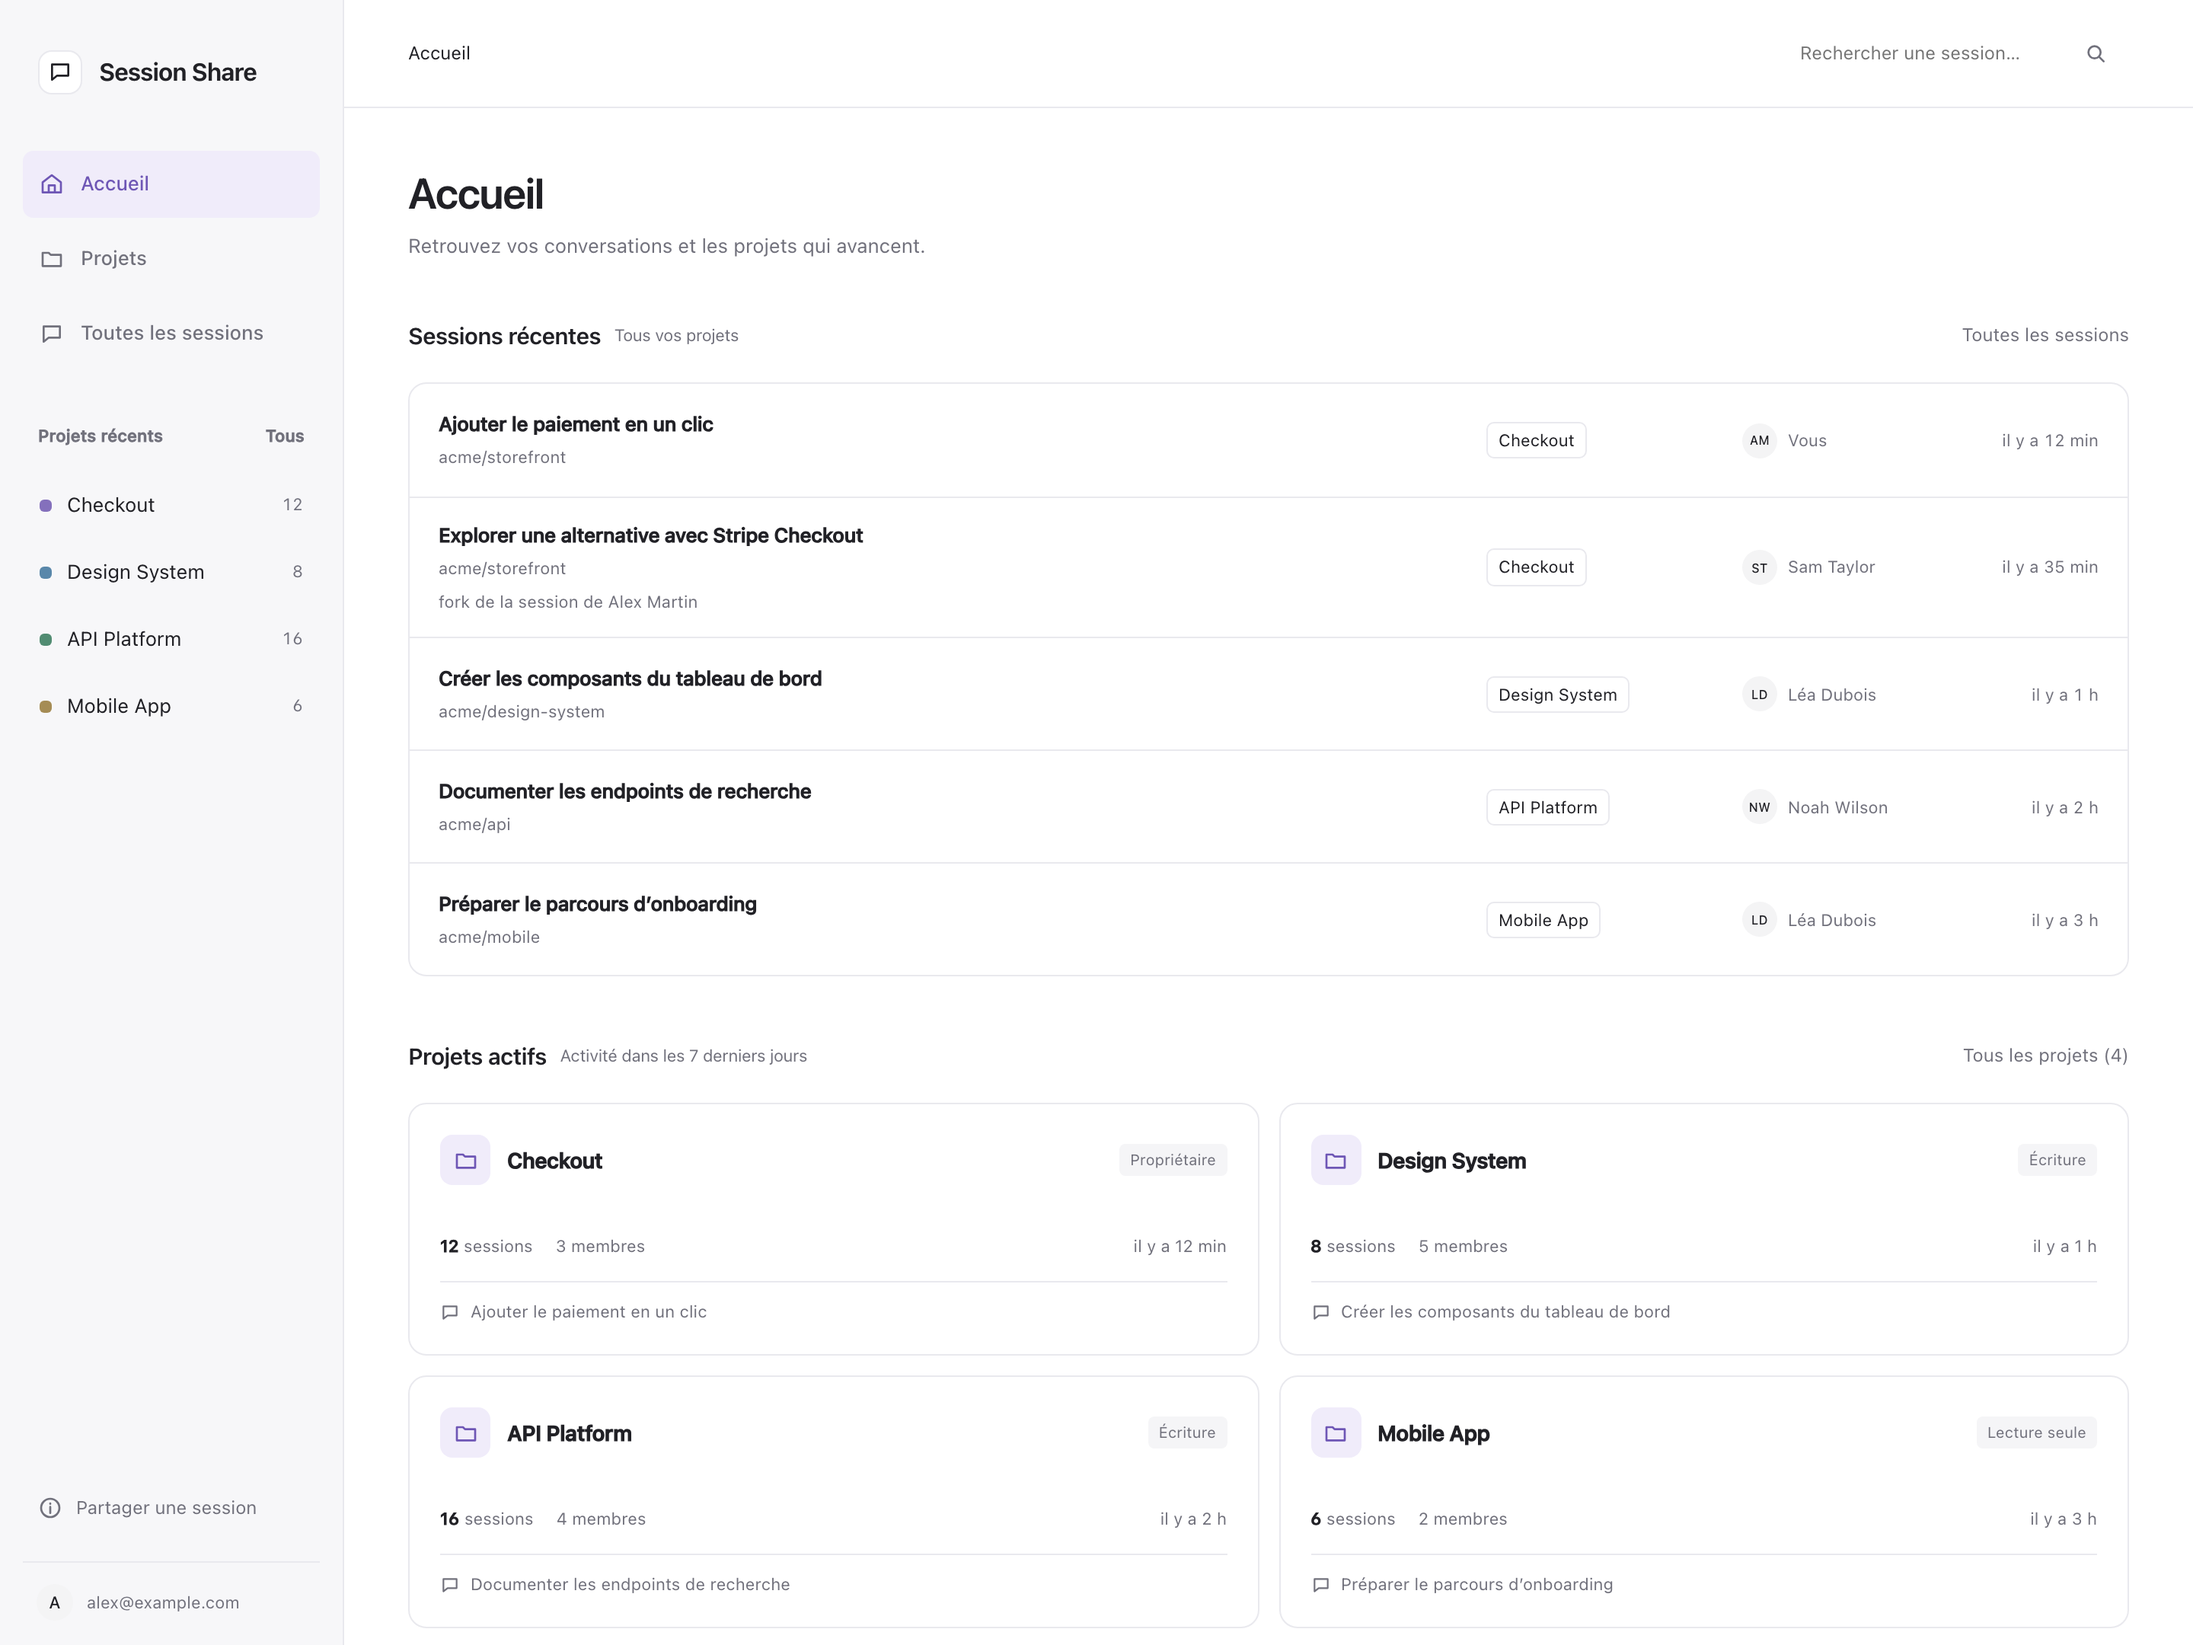
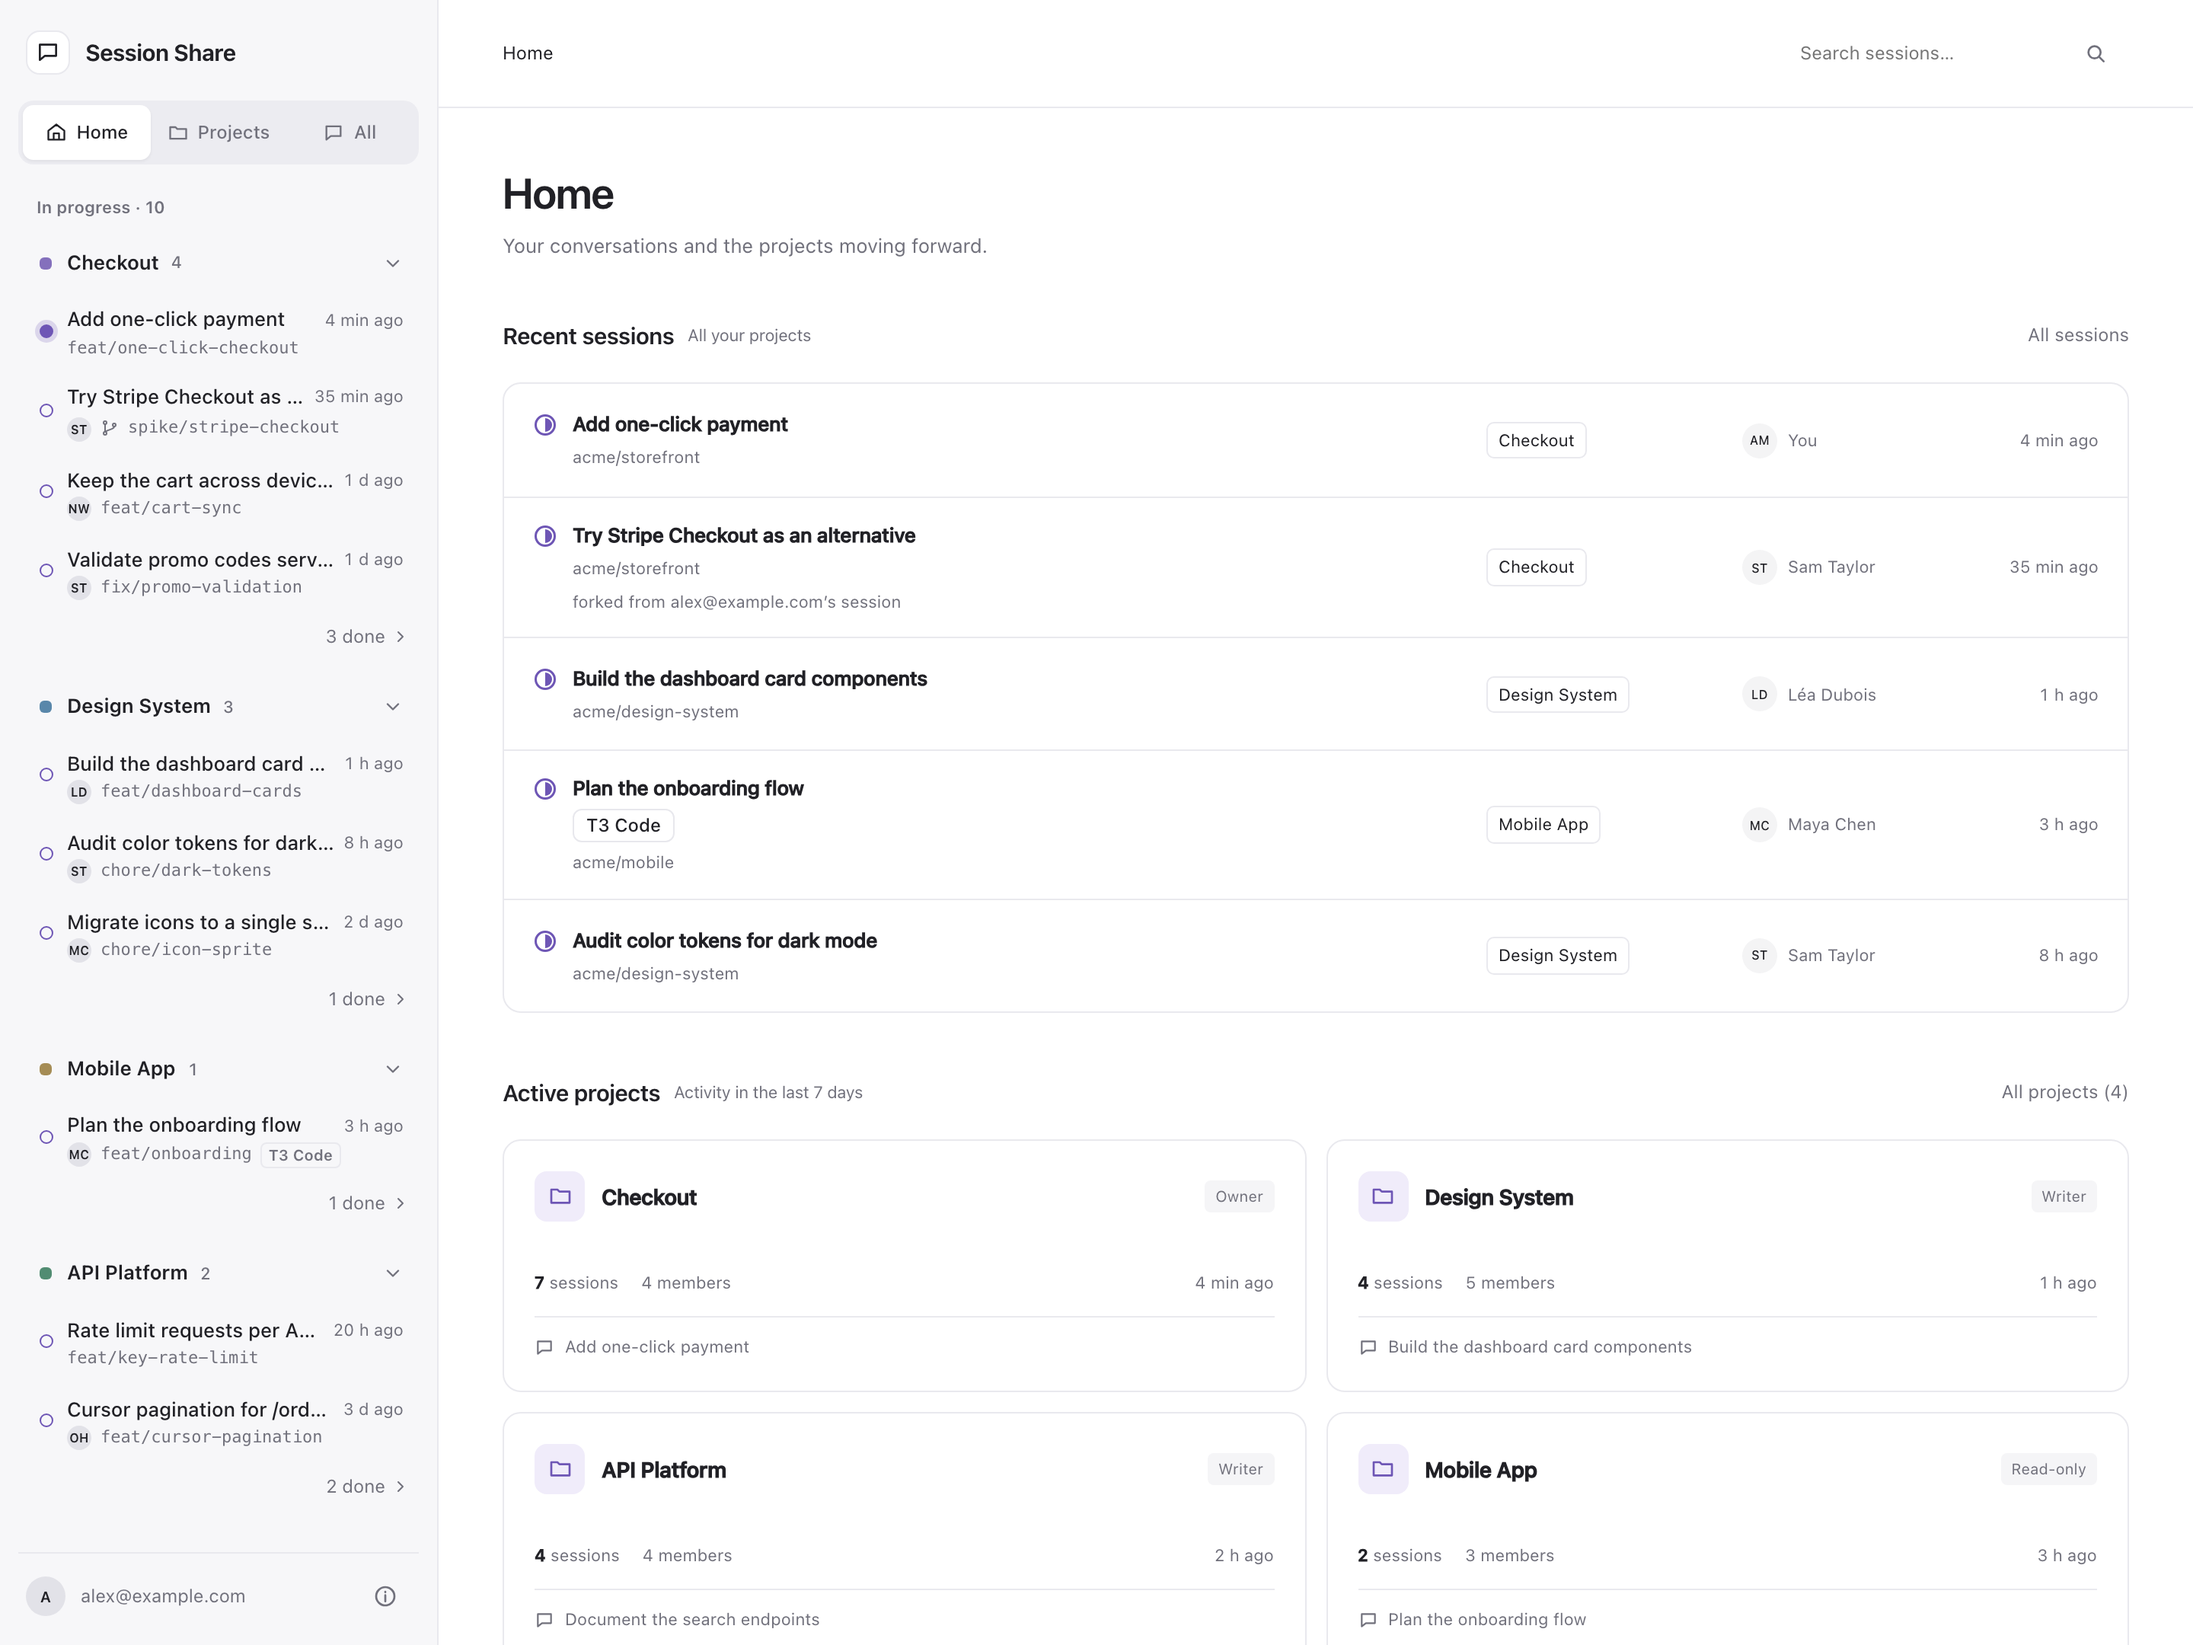
docs: refresh README screenshots with the current English UI

diff --git a/README.md b/README.md
@@ -6,11 +6,11 @@ Share Claude Code and Codex session transcripts with your team: upload, sync, br
 
 *Watch the flow (47 s, sound on): share a Claude Code session, then a teammate forks it in Codex.*
 
-![Homepage showing shared sessions, a fork attributed to its original author, and four active projects](docs/images/homepage.png)
+![Homepage with in-progress sessions grouped by project in the sidebar, recent sessions including a fork and a T3 Code relay, and four active projects](docs/images/homepage.png)
 
 *Homepage with fictional sessions, authors, and projects.*
 
-![Shared session reader showing the conversation, intermediate steps, session details, and resume action](docs/images/session.png)
+![Shared session reader showing a turn with its tool steps (thinking, search, reads, edit, tests), the detail levels, and the resume action](docs/images/session.png)
 
 *A fictional shared session, ready to resume in Claude Code or Codex.*
 
